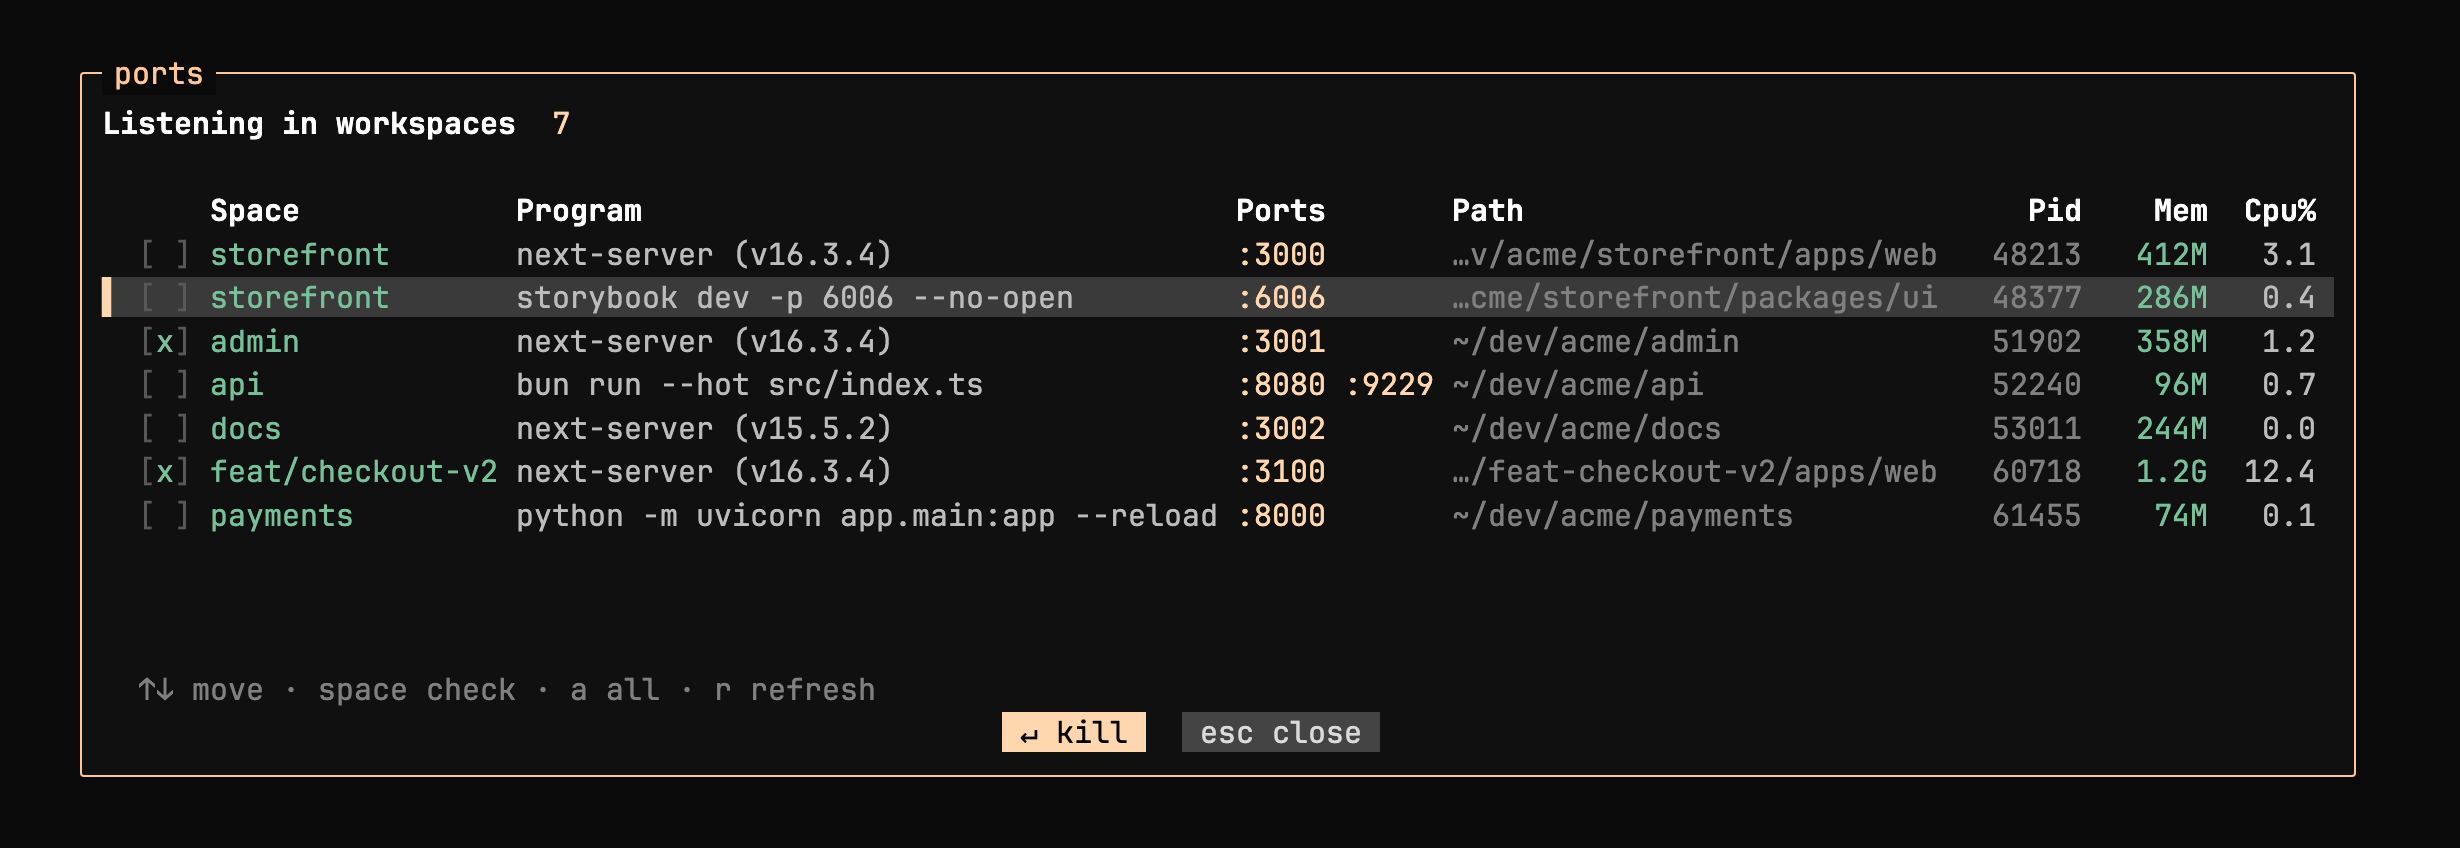
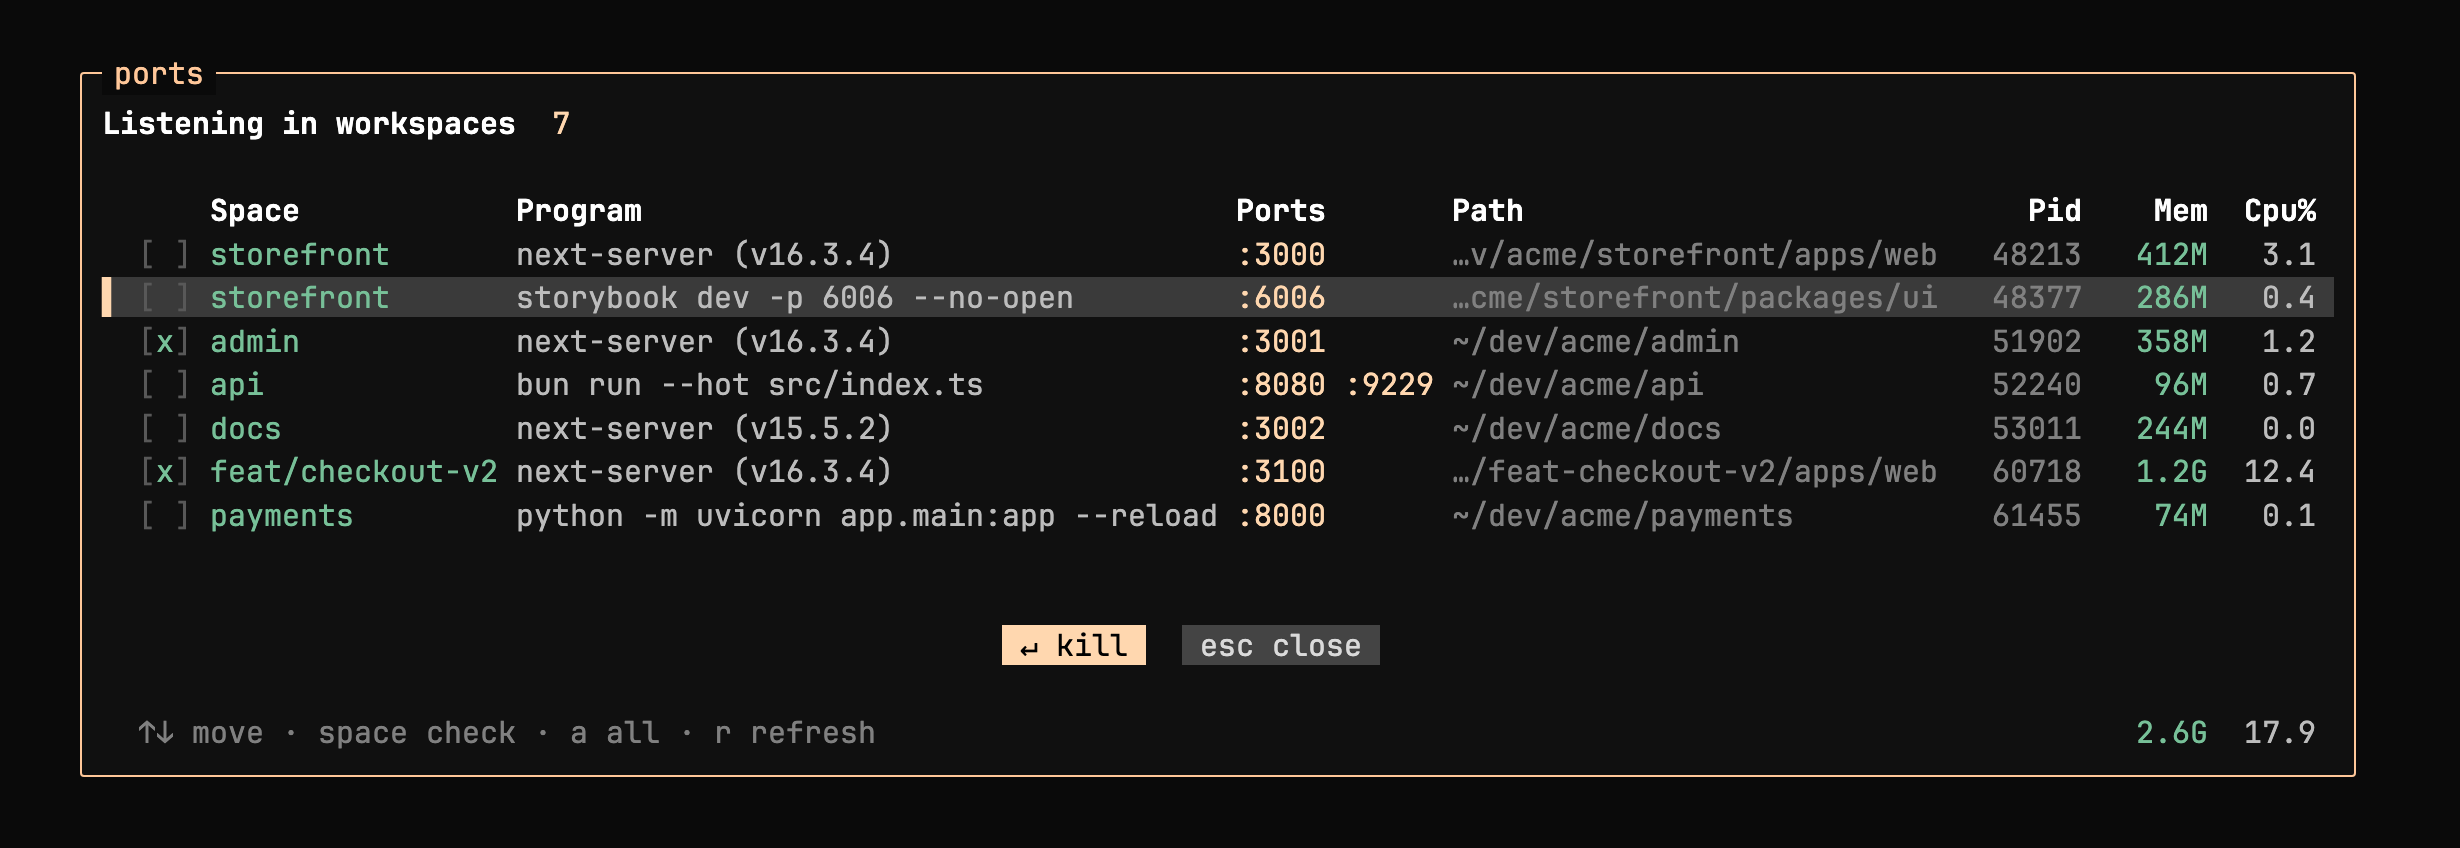
feat: footer totals, scrollbar, instant scrolling - release 0.3.0
- CTA chips above the help line; Mem/Cpu% totals of the listed rows aligned under their columns
- scrollbar when rows overflow; cursor no longer wraps at the list edges
- fork-free escape parsing (DSR 5n): a wheel backlog is applied in one redraw
- one line per wheel notch (HERDR_PORTS_WHEEL)
- fix: tty echo off for the popup's lifetime (wheel bursts printed ^[[<65;..M garbage)
- r also forces a full repaint
- docs: sidebar screenshot, updated popup screenshot

diff --git a/README.md b/README.md
@@ -46,6 +46,8 @@ Then `herdr server reload-config`.
   flush right. As the pane narrows, columns drop (Program, Mem and Cpu%, Path,
   Pid), then Ports and Space crop. Long lists scroll with the cursor.
 - It refreshes every 3s, and only the screen lines that changed are repainted.
+- The bottom line totals Mem and Cpu% of the listed rows under their columns. A
+  scrollbar appears when rows overflow.
 - Keyboard: arrows or `j` `k` move, `space` checks, `enter` kills the checked
   rows (or the highlighted one), `a` lists every listener on the machine, `r`
   refreshes, `esc` or `q` quits.
@@ -57,11 +59,14 @@ Then `herdr server reload-config`.
 | Variable | Default | |
 | --- | --- | --- |
 | `HERDR_PORTS_REFRESH` | `3` | popup refresh period in seconds, `0` disables |
+| `HERDR_PORTS_WHEEL` | `4` | wheel events per cursor step: `4` is one line per notch, `1` follows the terminal |
 | `HERDR_PORTS_ACCENT` | `223` | 256-color index of the accent, match your theme |
 | `HERDR_PORTS_INTERVAL` | `5` | badge watcher poll period in seconds |
 | `HERDR_PORTS_BADGE` | `↯` | badge glyph |
 
 ## How the badge works
+
+<img src="docs/sidebar.webp" width="300" alt="herdr sidebar with the ports badge">
 
 `herdr-ports watch` polls and posts a `ports` token as workspace metadata with
 a TTL, so the badge clears itself shortly after the last server dies. The
